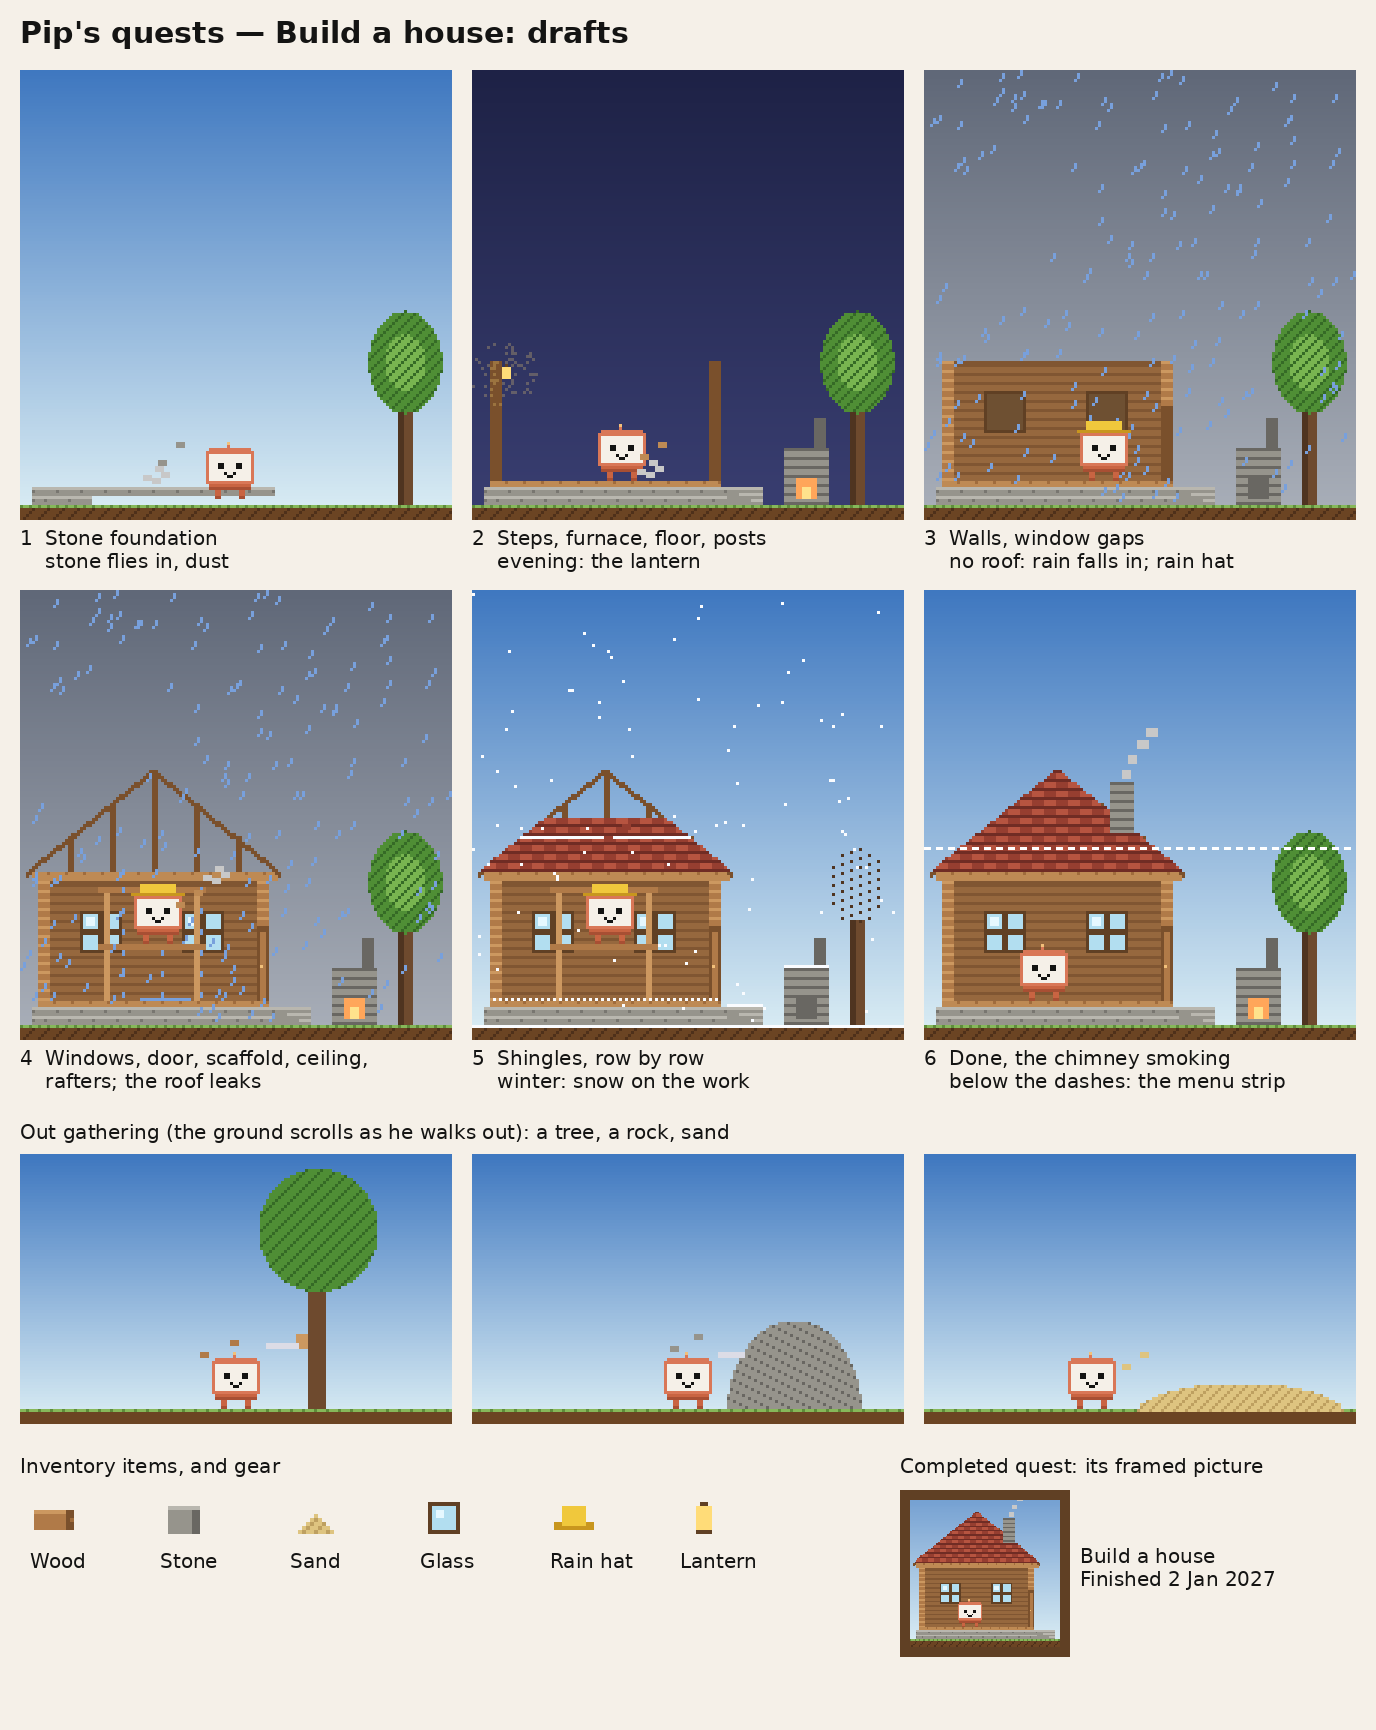
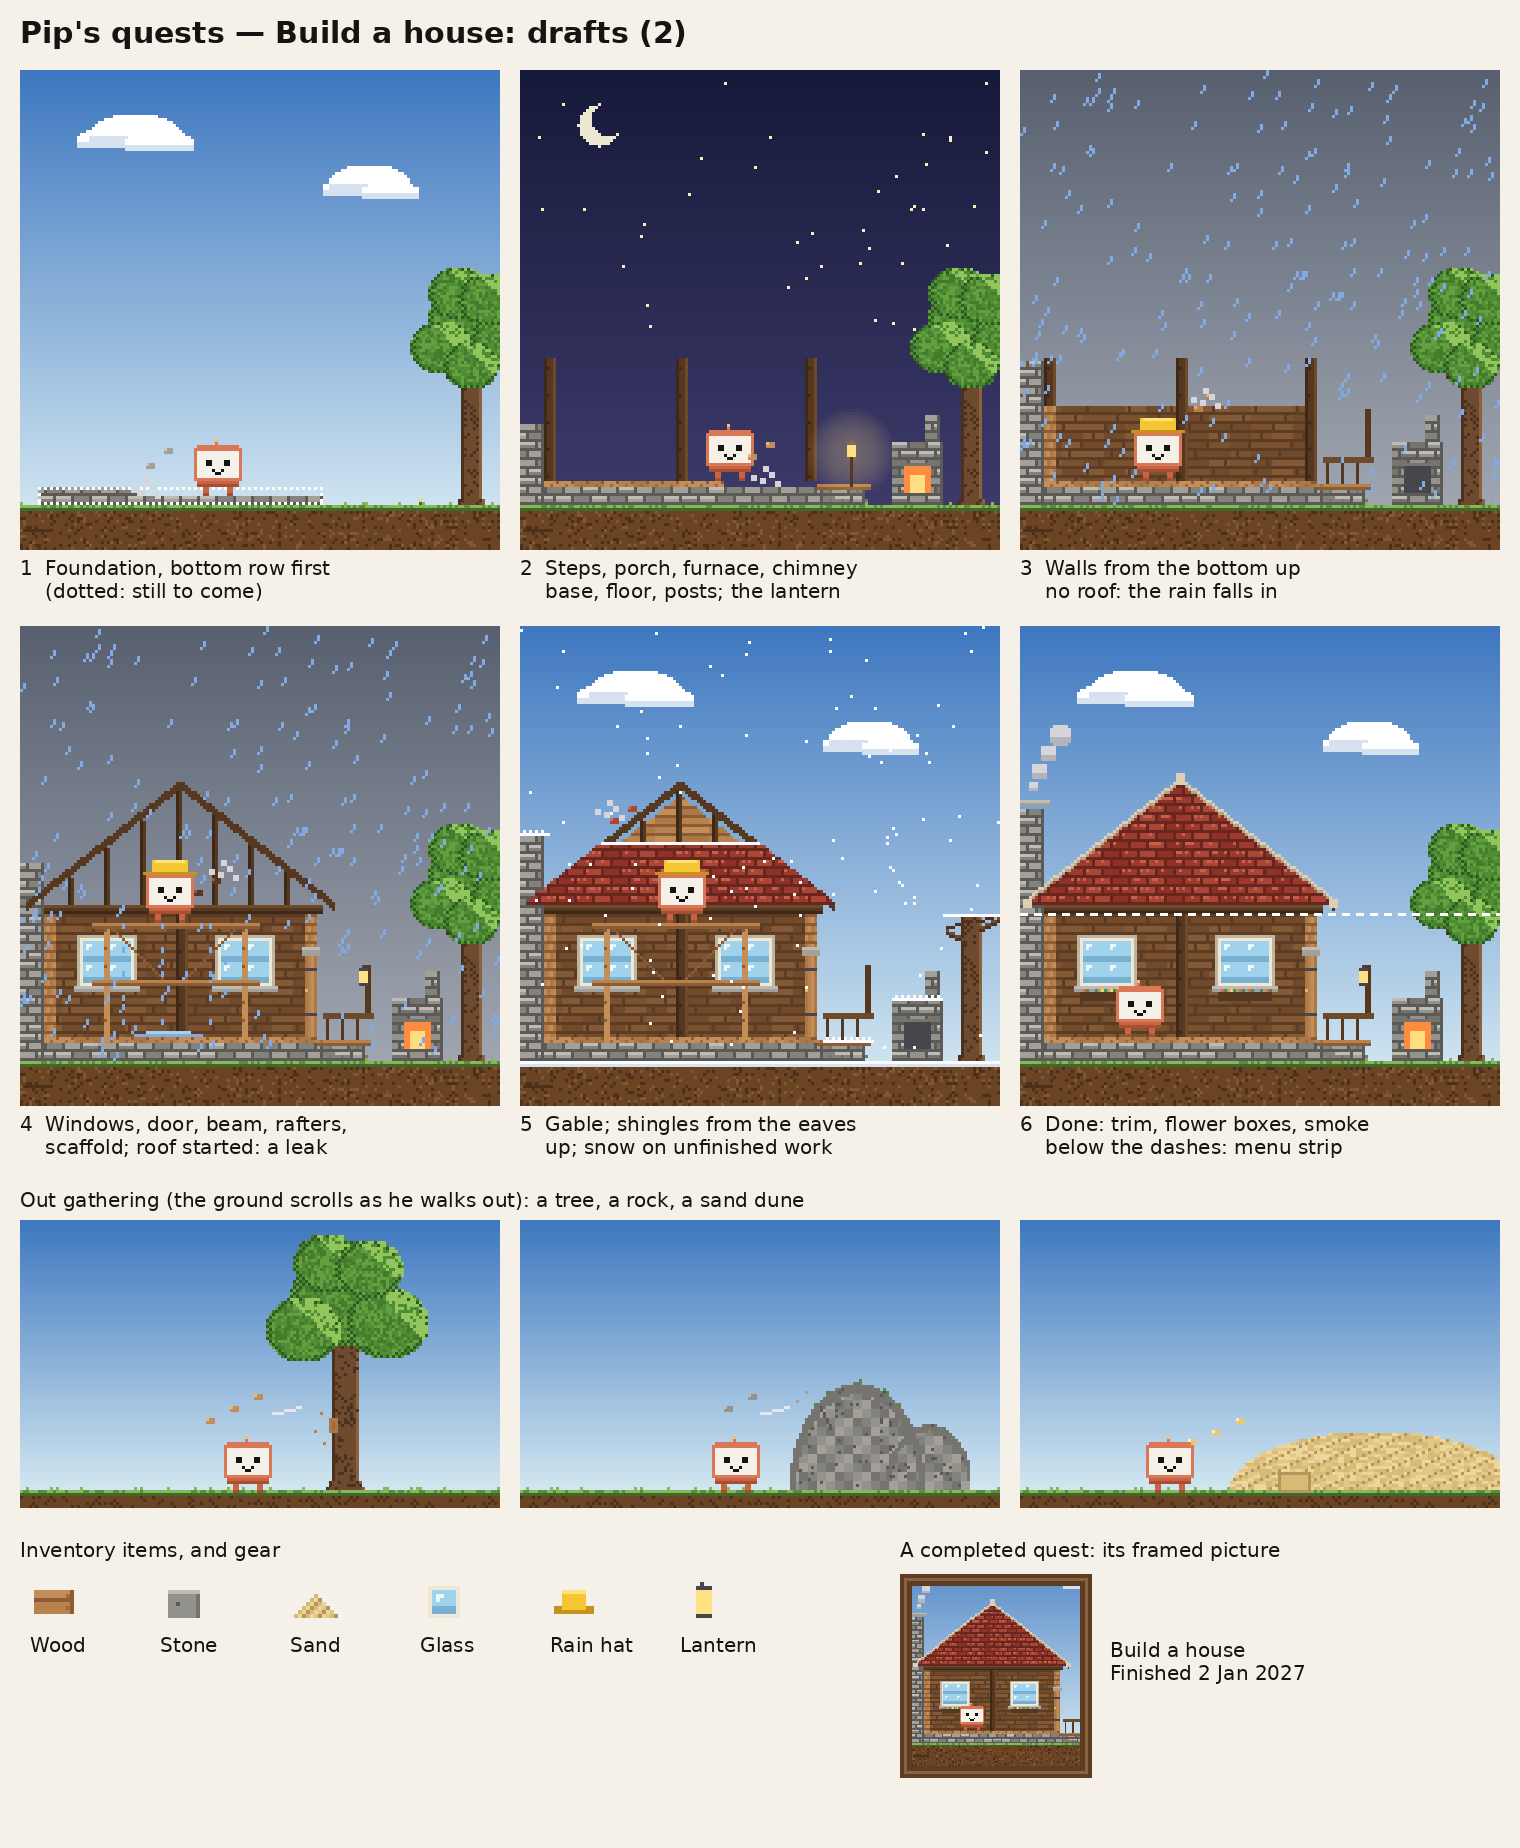
Pip's quests: detailed house drafts, build order, nothing floats

diff --git a/docs/QUESTS_SPEC.md b/docs/QUESTS_SPEC.md
@@ -1,6 +1,6 @@
 # Pip's quests — spec (Round 121)
 
-Written in Round 121, after v2.0.0. The first quest is **Build a house**:
+Written in Round 121, after v2.0.0; Round 122: the house drawn again, more detailed, nothing floating. The first quest is **Build a house**:
 Pip gathers wood, stone and sand, makes glass, and builds a house piece by
 piece over about two months, during two set hours a day. The house then
 becomes where he lives. **Requested** marks what was asked for,
@@ -113,27 +113,43 @@ what's still open is in section 13. Drafts: `docs/pip_house_drafts.png`.
   interior. **Requested:** stone, wood and glass; **detailed and
   sound**, since it becomes where he lives.
 - Seen from the side, cut away at the front, so he's seen inside.
-- **The order (proposed):**
-  1. **Stone foundation**, block by block.
-  2. **Stone steps** up to the door.
-  3. **The furnace** (stone), outside on the right.
-  4. **Wooden floor**, plank by plank.
-  5. **Corner posts** (wood).
-  6. **The back wall**, planks, leaving two window openings.
-  7. **The side walls**, the right one with the **doorway**.
+- **Requested (Round 122): nothing floats.** Every block rests on what's
+  under it: built bottom-up, row by row, each on the ground or on a
+  block already in place. Only materials flying to him or into a piece
+  are in the air.
+- **Requested (Round 122):** detailed, like **a good-looking Terraria
+  house**: textured stone bricks (mortar, shades), plank grain, dark
+  log beams, multi-pane windows with sills, a banded door under a stone
+  lintel, a porch with a railing, eaves with trim, a gable with a round
+  attic window, flower boxes, a stone chimney from the ground up.
+- **The order (decided, Round 122):**
+  1. **Stone foundation**, block by block, the bottom row first.
+  2. **Stone steps** up to the door, and the **porch** boards.
+  3. **The furnace** (stone), outside on the right, its own chimney.
+  4. **The chimney's base**, stone, from the ground beside the left wall.
+  5. **Wooden floor**, plank by plank.
+  6. **Posts** (log beams): the corners and the middle.
+  7. **Walls**: the back wall and the side walls, row by row from the
+     floor up, leaving the window openings and the doorway.
   8. **Glass**: smelted in the furnace, then the **two windows** set in
-     (frames and panes).
-  9. **The door** (wood, with a handle).
-  10. **Scaffold** (wood) put up, to reach the top.
-  11. **Ceiling**, plank by plank.
-  12. **Roof rafters**, then **shingles**, row by row.
-  13. **Chimney** (stone).
-  14. **Scaffold taken down**; done.
+     (frames, four panes each, stone sills).
+  9. **The door** (planks, iron bands, a handle) under a **stone lintel**;
+     the porch **railing** and post, the **lantern** hung on it.
+  10. **The ceiling beam** across the posts; the **chimney** raised
+      alongside, block on block.
+  11. **Scaffold** (wood) put up, to reach the top.
+  12. **Rafters**, then the **gable** (planks, the round attic window).
+  13. **Shingles**, row by row from the eaves up to the ridge.
+  14. **Eave trim**, the chimney's cap, **flower boxes** under the windows.
+  15. **Scaffold taken down**; done.
 - **Requested:** building is shown: he **walks to the piece**, its
   materials **fly from him into it**, and it **smokes / puffs** while he
   works until it's in place. For high parts he climbs the scaffold.
-- **Proposed:** a piece being built shows as an outline that fills in as
-  he works.
+- **Proposed:** a piece being built shows as a dotted outline that fills
+  in as he works.
+- **Proposed:** the tree, rock and sand drawn as in the drafts or better:
+  a layered canopy with branches, bark and roots; boulders with cracks,
+  light and moss; a dune with ripples. A felled tree leaves a stump.
 
 ## 7. Moving between places
 
@@ -212,6 +228,10 @@ what's still open is in section 13. Drafts: `docs/pip_house_drafts.png`.
   bugs, butterflies, flowers, the ball, puddles, the snowman, snowballs.
 - **Proposed:** with no quest active, quest hours are ordinary house
   time.
+- **Decided (Round 122): adventures stay as they are**: once registered
+  he's out every day 12:00–18:00. He isn't only when powered down at
+  12:00 with no battery until 17:00 (he lies where he fell, then idles
+  in the house), or on a ski trip (he's skiing).
 
 ## 11. Data and backup
 
@@ -231,9 +251,6 @@ what's still open is in section 13. Drafts: `docs/pip_house_drafts.png`.
 
 ## 13. Open
 
-- Whether, after the house, he's in the house or on the field from 12:00
-  to 18:00 on days he isn't on an adventure (the notes name only
-  11:30–12:00 and 18:00–19:00 for the field). **Proposed:** the house.
 - The drafts (`docs/pip_house_drafts.png`): the house at its stages, the
   materials, the furnace, the scaffold, the rain hat, the lantern.
 

diff --git a/docs/ROADMAP.md b/docs/ROADMAP.md
@@ -346,6 +346,9 @@ fixtures for every stored format.
   (`docs/pip_house_drafts.png`). Answers: no charging in quest hours;
   a lantern at night; a rain hat in rain, snow and storms; a drawn
   framed picture; the charging station where he is.
+- [x] Round 122: nothing floats (built bottom-up, each block on one
+  below); the house redrawn, Terraria-like and detailed; adventures as
+  they are (the house only when he doesn't go).
 - [ ] The spec and drafts approved; then the rules round.
 
 ### Round 120 — v2.0.0 (2026-10-29, 2.0.0)
